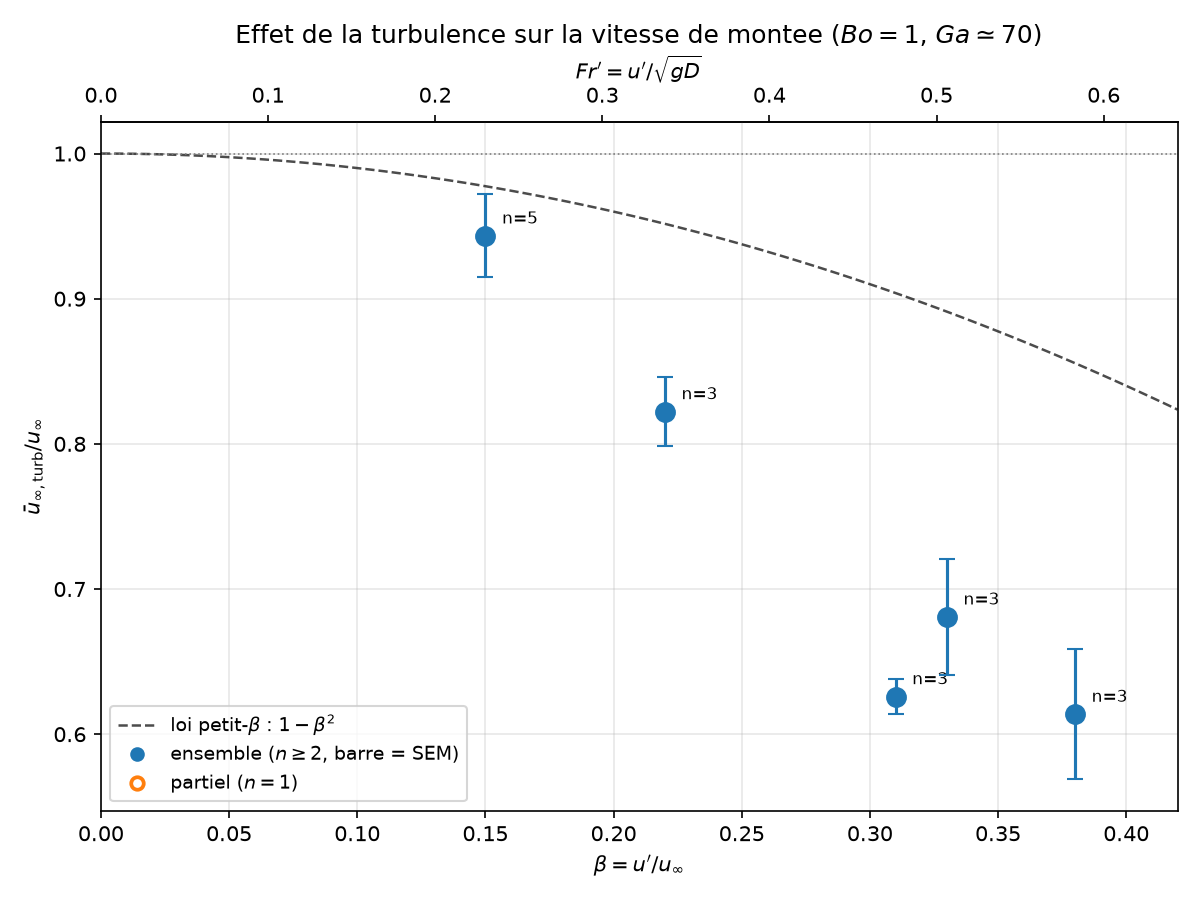
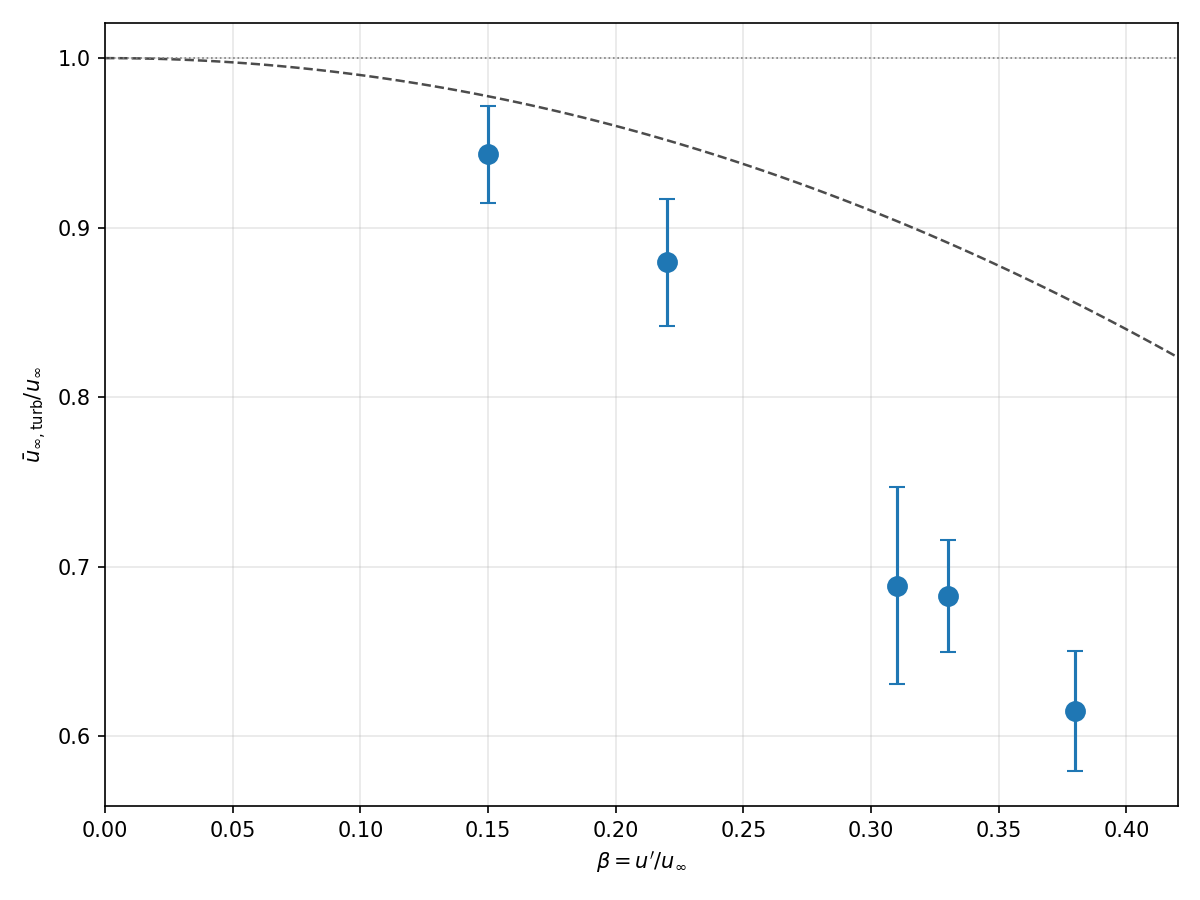
Clean analyse_weber_ensemble.py and postprocess.py docstrings

diff --git a/scripts/analyse_weber_ensemble.py b/scripts/analyse_weber_ensemble.py
@@ -1,26 +1,7 @@
 #!/usr/bin/env python3
-# ============================================================================
-#  analyse_weber_ensemble.py -- Depouillement de la campagne "weber_rise"
-#  (effet de la turbulence sur la vitesse de montee, gravite periodique CORRIGEE)
-# ----------------------------------------------------------------------------
-#  Cadre : Bo=1, Ga~70 (g=4), balayage de l'intensite turbulente beta = u'/u_inf.
-#  Chaque point Weber a plusieurs MEMBRES d'ensemble (positions d'injection
-#  decalees, argv[11]=MEMBER) -> realisations turbulentes independantes du meme
-#  precurseur. On POOLE les membres par Weber.
-#
-#  La vitesse d'ascension est le PLATEAU de frame_uz (u_inf dans le repere mobile
-#  move_frame), moyenne sur t >= T0 (defaut 220). Ratio a la reference laminaire
-#  u_inf_lam = 12.24 (run lam7_frame, job 38772).  ->  reduction = 1 - ratio.
-#
-#  Donnees attendues (rapatriees par le fetch tar depuis Kairos) :
-#    simulations/weber_ensemble/wtXX_mN/frame.dat   (t frame_uz frame_z ub_repere)
-#    simulations/weber_ensemble/wtXX_mN/bubble.dat  (controle volume/chi)
-#
-#  Sorties (scripts/figures/) : weber_rise_prelim.png (ratio vs beta, barres
-#  d'erreur d'ensemble), weber_ensemble.csv, weber_ensemble_tab.tex.
-#
-#  Usage : python scripts/analyse_weber_ensemble.py [--root .] [--t0 220]
-# ============================================================================
+"""
+analyse_weber_ensemble.py -- Dépouillement des simulations de remontee (moyennes d'ensemble).
+"""
 import argparse
 import os
 import numpy as np
@@ -28,46 +9,26 @@ import matplotlib
 matplotlib.use("Agg")
 import matplotlib.pyplot as plt
 
-# ---- constantes du cas (unites code) ----
 R0     = 8.0
 D      = 2.0 * R0
-G      = 4.0                       # |g| des runs weber (GRAV=4, Ga~70)
-V_THEO = 4.0/3.0*np.pi*R0**3       # 2144.66
-U_LAM  = 12.27   # u_inf laminaire de reference (lam7_frame, job 38772).
-                 # MAJ 2026-07-22 : 12.24 -> 12.27. L'ancienne valeur etait le
-                 # plateau de frame_uz SEUL, qui oublie le residuel de la bulle
-                 # dans le repere. La bonne mesure est d(z_lab)/dt avec
-                 # z_lab = frame_z + zc, qui ne depend d'aucune convention de
-                 # moyenne (cf. scripts/plot_ascension_laminaire.py). Ecart 0.2 %.
-FR_FAC = U_LAM / np.sqrt(G*D)      # Fr' = beta * U_LAM/sqrt(gD) = beta * 1.53
+G      = 4.0
+V_THEO = 4.0/3.0*np.pi*R0**3
+U_LAM  = 12.27
+FR_FAC = U_LAM / np.sqrt(G*D)
 
-# colonnes
-CF = {"t": 0, "uz": 1, "z": 2, "ub": 3}                  # frame.dat
-CB = {"t": 0, "volume": 1, "chi": 12}                    # bubble.dat
+CF = {"t": 0, "uz": 1, "z": 2, "ub": 3}
+CB = {"t": 0, "volume": 1, "chi": 12}
 
-# les 5 points Weber : (label, KE_TARGET, beta = u'/u_inf mesure sur precurseur)
 POINTS = [("beta0150", 5, 0.15), ("beta0220", 11, 0.22), ("beta0310", 21, 0.31),
           ("beta0330", 25, 0.33), ("beta0380", 32, 0.38)]
 MEMBERS = [0, 1, 2, 3, 4]
 
-
 from dataio import load_table
 
-
 def load(path):
-    """Chargeur commun ROBUSTE (scripts/dataio.py).
-
-    L'ancienne version fixait le nombre de colonnes sur la 1re ligne et jetait
-    SILENCIEUSEMENT les autres. Depuis la correction d'`event bubble`
-    (2026-07-22), bubble.dat a 16 colonnes au lieu de 13 : un run repris avec le
-    nouveau binaire produit un fichier a deux formats, dont toute la seconde
-    moitie aurait disparu sans un mot. load_table tronque a la largeur commune
-    et le signale sur stderr."""
     return load_table(path)
 
-
 def plateau_uz(frame, t0):
-    """Moyenne de frame_uz sur le plateau t>=t0. None si pas de point plateau."""
     if frame is None or len(frame) < 3:
         return None
     t = frame[:, CF["t"]]
@@ -78,9 +39,7 @@ def plateau_uz(frame, t0):
     return dict(mean=float(np.mean(uz)), std=float(np.std(uz)),
                 npts=int(m.sum()), tend=float(t[-1]))
 
-
 def vol_check(bub, t0):
-    """Fraction volumique min et chi max sur le plateau (non-fragmentation)."""
     if bub is None or len(bub) < 3:
         return None
     t = bub[:, CB["t"]]
@@ -90,12 +49,11 @@ def vol_check(bub, t0):
     return dict(vfrac_min=float(np.min(bub[m, CB["volume"]]))/V_THEO,
                 chi_max=float(np.max(bub[m, CB["chi"]])))
 
-
 def main():
     ap = argparse.ArgumentParser()
     ap.add_argument("--root", default=".")
     ap.add_argument("--t0", type=float, default=220.0,
-                    help="debut du plateau frame_uz (defaut 220)")
+                    help="debut du plateau frame_uz")
     args = ap.parse_args()
 
     base = os.path.join(args.root, "simulations", "betasweep")
@@ -119,30 +77,13 @@ def main():
             sd = float(np.std(vals, ddof=1)) if n >= 2 else float("nan")
             sem = sd/np.sqrt(n) if n >= 2 else float("nan")
             ratio = mean/U_LAM
-            red = 100.0*(ratio-1.0)   # changement signe ū/u_inf - 1 (<0 = ralentissement)
+            red = 100.0*(ratio-1.0)
         else:
             mean = sd = sem = ratio = red = float("nan")
         rows.append(dict(lab=lab, ke=ke, beta=beta, frp=beta*FR_FAC,
                          members=members, n=n, mean=mean, sd=sd, sem=sem,
                          ratio=ratio, red=red))
 
-        mstr = " ".join(f"m{mm['m']}={mm['uz']:.2f}" for mm in members) or "(aucun plateau)"
-        sem_str = f"+/-{sem/U_LAM*100:.0f}%" if np.isfinite(sem) else " (n<2)"
-        rat_str = f"{ratio:.2f}" if np.isfinite(ratio) else "  -"
-        red_str = f"{red:+.0f}" if np.isfinite(red) else "  -"
-        mean_str = f"{mean:.2f}" if np.isfinite(mean) else "  -"
-        print(f"{lab:6} {beta:5.2f} {mstr:32} {mean_str:>6} {rat_str:>6} "
-              f"{red_str:>6} {sem_str:>6}  [n={n}]")
-
-    # --- controle volume / non-fragmentation ---
-    print("\n  Controle non-fragmentation (min V/Vth, chi max sur plateau) :")
-    for r in rows:
-        for mm in r["members"]:
-            if mm["vc"]:
-                print(f"    {r['lab']} m{mm['m']}: V/Vth_min={mm['vc']['vfrac_min']*100:.0f}%  "
-                      f"chi_max={mm['vc']['chi_max']:.2f}  (t_end={mm['tend']:.0f}, n_plat={mm['npts']})")
-
-    # --- CSV ---
     csv = os.path.join(figdir, "weber_ensemble.csv")
     with open(csv, "w", encoding="utf-8") as f:
         f.write("Weber,KE,beta,Fr_prime,n_membres,uz_moy,uz_std,SEM,ratio,reduction_pct,membres_uz\n")
@@ -151,32 +92,10 @@ def main():
             f.write(f"{r['lab']},{r['ke']},{r['beta']},{r['frp']:.3f},{r['n']},"
                     f"{r['mean']:.3f},{r['sd']:.3f},{r['sem']:.3f},{r['ratio']:.3f},"
                     f"{r['red']:.1f},{mu}\n")
-    print(f"\n  CSV   -> {csv}")
 
-    # --- lignes LaTeX pour sec9 (tab:weber_ensemble) ---
-    tex = os.path.join(figdir, "weber_ensemble_tab.tex")
-    with open(tex, "w", encoding="utf-8") as f:
-        f.write("% Genere par analyse_weber_ensemble.py -- coller dans sec9.tex\n")
-        f.write("% colonnes : Weber & beta & Fr' & n & u_inf_turb & ratio & reduction \\\\\n")
-        for r in rows:
-            if r["n"] >= 2:
-                val = f"{r['mean']:.2f} $\\pm$ {r['sem']:.2f}"
-                red = f"{r['red']:+.0f}\\%"
-            elif r["n"] == 1:
-                val = f"{r['mean']:.2f} (partiel)"
-                red = f"{r['red']:+.0f}\\%"
-            else:
-                val = "--"; red = "--"
-            rat = f"{r['ratio']:.2f}" if np.isfinite(r["ratio"]) else "--"
-            f.write(f"        {r['lab']} & {r['beta']:.2f} & {r['frp']:.2f} & "
-                    f"{r['n']} & {val} & {rat} & {red} \\\\\n")
-    print(f"  LaTeX -> {tex}")
-
-    # --- figure : ratio vs beta, barres d'erreur d'ensemble ---
     fig, ax = plt.subplots(figsize=(8, 6))
     bb = np.linspace(0, 0.42, 100)
-    ax.plot(bb, 1.0 - bb**2, "k--", lw=1.2, alpha=0.7,
-            label=r"loi petit-$\beta$ : $1-\beta^2$")
+    ax.plot(bb, 1.0 - bb**2, "k--", lw=1.2, alpha=0.7, label=r"$1-\beta^2$")
     ax.axhline(1.0, color="gray", lw=0.8, ls=":")
 
     for r in rows:
@@ -185,38 +104,18 @@ def main():
         if r["n"] >= 2:
             ax.errorbar(r["beta"], r["ratio"], yerr=r["sem"]/U_LAM,
                         fmt="o", ms=9, color="C0", capsize=4, zorder=5)
-            ax.annotate(f"n={r['n']}", (r["beta"], r["ratio"]),
-                        textcoords="offset points", xytext=(8, 6), fontsize=8)
         else:
-            ax.plot(r["beta"], r["ratio"], "o", ms=9, mfc="white",
-                    mec="C1", mew=1.8, zorder=5)
-            ax.annotate(f"n=1\n(partiel)", (r["beta"], r["ratio"]),
-                        textcoords="offset points", xytext=(8, -18),
-                        fontsize=8, color="C1")
-
-    # legende propre (marqueurs factices)
-    ax.plot([], [], "o", color="C0", label="ensemble ($n\\geq2$, barre = SEM)")
-    ax.plot([], [], "o", mfc="white", mec="C1", mew=1.8, label="partiel ($n=1$)")
+            ax.plot(r["beta"], r["ratio"], "o", ms=9, mfc="white", mec="C1", mew=1.8, zorder=5)
 
     ax.set_xlabel(r"$\beta = u'/u_\infty$")
     ax.set_ylabel(r"$\bar u_{\infty,\mathrm{turb}} / u_\infty$")
-    ax.set_title(r"Effet de la turbulence sur la vitesse de montee ($Bo=1$, $Ga\simeq70$)")
     ax.set_xlim(0, 0.42)
     ax.grid(True, alpha=0.3)
-    ax.legend(fontsize=9, loc="lower left")
-    # axe secondaire Fr'
-    axb = ax.secondary_xaxis("top", functions=(lambda b: b*FR_FAC,
-                                               lambda fr: fr/FR_FAC))
-    axb.set_xlabel(r"$Fr' = u'/\sqrt{gD}$")
+
     plt.tight_layout()
     out = os.path.join(figdir, "weber_rise_prelim.png")
     plt.savefig(out, dpi=150)
     plt.close()
-    print(f"  figure-> {out}")
-    n_full = sum(1 for r in rows if r["n"] >= 2)
-    print(f"\n  {n_full}/5 points a >=2 membres ; "
-          f"{sum(1 for r in rows if r['n']>=1)}/5 points avec au moins 1 membre.\n")
-
 
 if __name__ == "__main__":
     main()

diff --git a/scripts/postprocess.py b/scripts/postprocess.py
@@ -1,33 +1,7 @@
 #!/usr/bin/env python3
-# ============================================================================
-#  postprocess.py -- Courbes de convergence spatiale + statistiques turbulence
-# ----------------------------------------------------------------------------
-#  Lit :
-#    simulations/precursor/stats.dat      (# t dissipation energy Reynolds)
-#    simulations/lvl{7,8,9}/bubble.dat    (# t volume xc yc zc ux uy uz
-#                                             width depth height d_eq chi)
-#    simulations/lvl{7,8,9}/stats.dat     (turbulence PENDANT le run bulle,
-#                                          pour tau = k/eps)
-#
-#  Produit (dans scripts/figures/) :
-#    - rise_velocity.png       : vitesse de remontee u_z(t) pour chaque niveau
-#    - cumulative_mean.png     : moyenne cumulee U_cum(t;t0) vs depuis injection (P6)
-#    - t0_robustness.png       : U_b(t0) -> plateau = choix de t0 non arbitraire (P6)
-#    - convergence.png         : U_b (regression depuis t0) vs maxlevel
-#    - divergence_lvl7_lvl8.png: |z7-z8|(t), |uz7-uz8|(t) semilog (P7, chaos)
-#    - aspect_ratio.png        : chi(t) et width/depth/height
-#    - trajectoire.png         : montee + derive horizontale (deperiodisees)
-#    - turbulence.png          : energie, dissipation, Reynolds du precurseur
-#    - convergence_table.csv   : recap chiffre (U_b, C_D, Re_b, n_tau, traversees)
-#
-#  P6 (tuteurs) : la moyenne demarre a t0 = injection + transitoire, PAS a
-#  l'injection. U_b = pente de la regression lineaire de z_deperiodise(t) sur
-#  [t0, fin] (robuste), plus la moyenne cumulee pour visualiser la convergence.
-#
-#  Usage :
-#    python scripts/postprocess.py [--root .] [--levels 7 8 9] [--tail 0.2]
-#                                  [--t0-offset 8.0] [--t0 ABS]
-# ============================================================================
+"""
+postprocess.py -- Analyse et tracés des statistiques de convergence et de turbulence.
+"""
 import argparse
 import os
 import numpy as np
@@ -73,7 +47,7 @@ def unwrap_periodic(p, period=L0):
 
 
 def ub_regression(t, z, t0):
-    """U_b = pente de la regression lineaire de z(t) sur [t0, fin] (P6)."""
+    """U_b = pente de la regression lineaire de z(t) sur [t0, fin]."""
     mask = t >= t0
     if mask.sum() < 10:
         return np.nan
